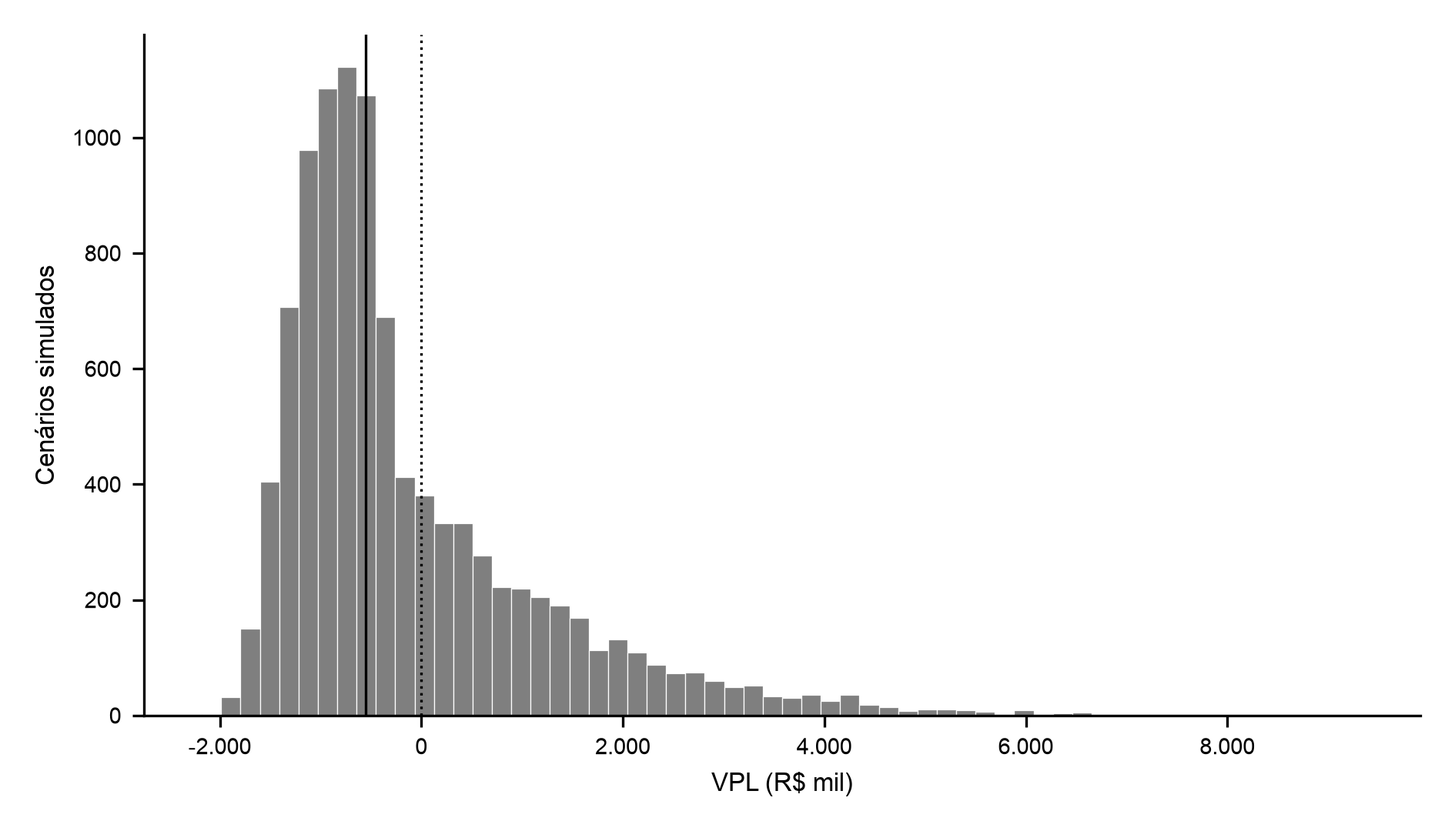
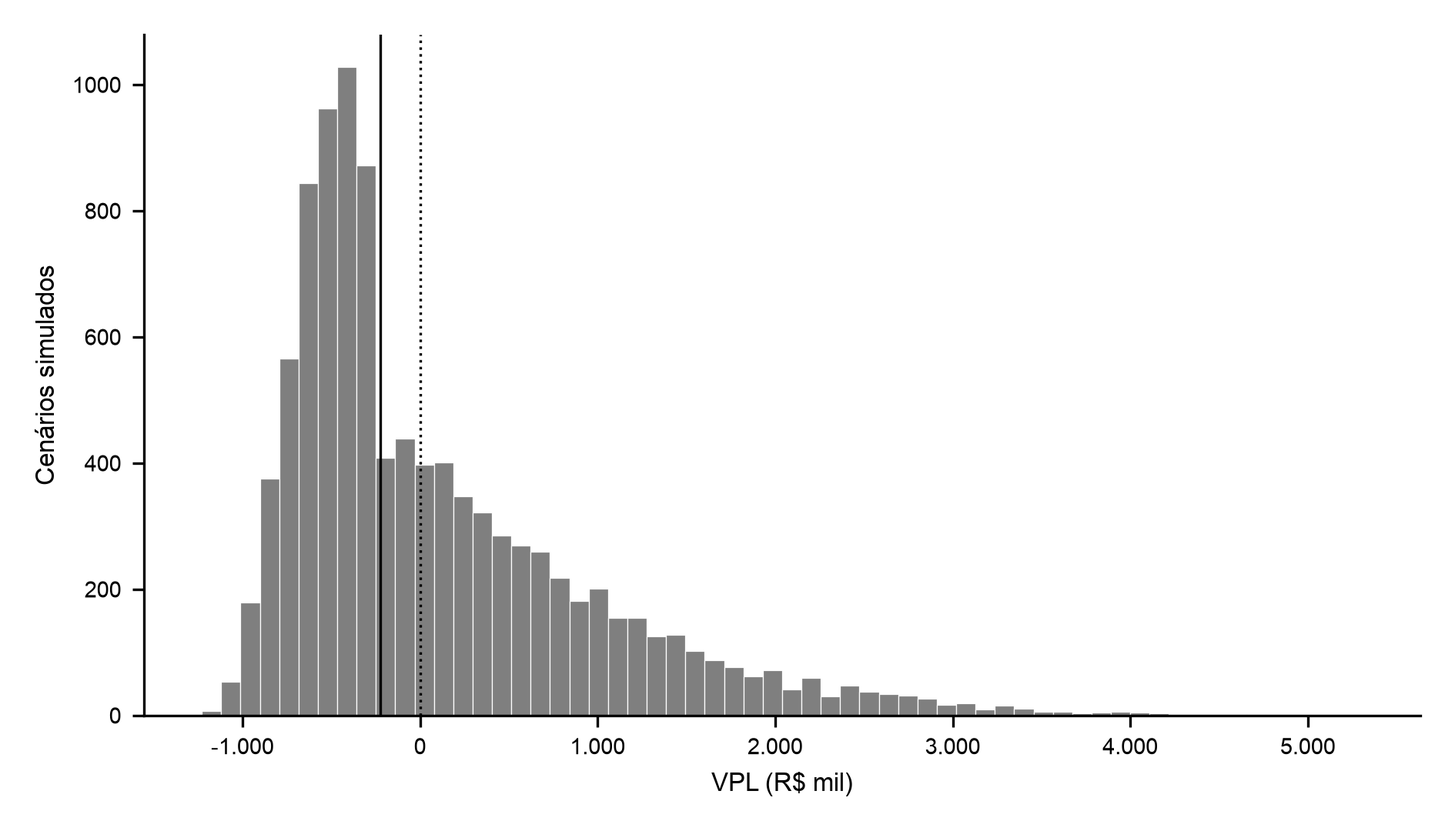
Cap. 9: modelo financeiro no desenho enxuto (6 mesas, 48 h, equipe de 6)
O provável sai de -R$ 638 mil para -R$ 47 mil e a probabilidade de VPL positivo sobe para 41,6%. O salário passa a variar só para cima do CAGED.

diff --git a/_src/extras/gerar_modelo_financeiro.py b/_src/extras/gerar_modelo_financeiro.py
@@ -28,6 +28,14 @@ pessoa no otimista, por dupla no provável, por trio no pessimista). Os dados de
 pedidos da coleta presencial (B3) ficam fora do modelo: a coleta se mostrou
 inviável.
 
+Desenho enxuto (P7 de _instrucoes/1a_principios.md, 02/11/2026): 6 mesas;
+terça a sexta das 15h às 23h e sábado e domingo das 14h às 22h (as 8 h
+contínuas com mais luderias abertas no B1), segunda fechada; equipe de 6 (2
+cozinheiros-chefes, 3 instrutores de tempo integral e 1 de meio período, 20 h).
+A São Jogue entra como referência de comportamento (ocupação, pessoas por mesa,
+permanência, giro), não de porte. As mesas ocupadas ficam limitadas ao salão:
+média ≤ mesas do salão ÷ razão pico/média das visitas (B3).
+
 Entradas: B1 (cesta de jogos; couvert e cesta de consumo dos cardápios), B3
 (contagem_resumo_visitas.csv, contagem_notas_intervalo.csv), B4 (FipeZap, CAGED, BCB,
 Simples Nacional, IBGE PAS e população). As premissas N6 ficam em PREMISSAS,
@@ -72,6 +80,7 @@ FIGURA_MC = ROOT / "textos" / "capitulos" / "figuras" / "9_monte_carlo.png"
 SOFFICE = "/Applications/LibreOffice.app/Contents/MacOS/soffice"
 
 MESES = 60
+JORNADA_H, MEIO_PERIODO_H = 44, 20  # jornada semanal da CLT e do instrutor de meio período
 # vida útil (anos) dos itens depreciáveis, a mesma da aba investimento
 VIDA_UTIL = dict(reforma=5, mobiliario=10, cozinha=10, ti=5, acervo=5, preop=5)
 ANOS = 5
@@ -140,18 +149,17 @@ def salario(f, ocupacao: str, recorte: str = "CNAE 56 - alimentação") -> float
 
 
 def quadro_pessoal(f) -> list[tuple]:
-    """(cargo, CBO, quantidade, salário, fonte). Quadro de referência: dois turnos, 68 h por semana."""
+    """(cargo, CBO, quantidade, salário, fonte). Equipe do desenho enxuto (P7): 48 h abertas
+    por semana, de terça a domingo; a gestão fica com o sócio (pró-labore, C08)."""
     cn56 = "CAGED, admissões ago/2025-jul/2026, Salvador, CNAE 56, mediana"
     todas = "CAGED, admissões ago/2025-jul/2026, Salvador, todas as atividades, mediana (CNAE 56 com amostra pequena)"
+    rec = salario(f, "Recreador", "todas as atividades")
     return [
-        ("Gerente", "141510", 1, salario(f, "Gerente de restaurante"), cn56),
-        ("Cozinheiro", "513205", 2, salario(f, "Cozinheiro geral"), cn56),
-        ("Auxiliar de cozinha", "513505", 1, salario(f, "Auxiliar nos serviços de alimentação"), cn56),
-        ("Garçom", "513405", 3, salario(f, "Garçom"), cn56),
-        ("Atendente de bar e balcão", "513435", 1, salario(f, "Atendente de lanchonete"), cn56),
-        ("Operador de caixa", "421125", 1, salario(f, "Operador de caixa"), cn56),
-        ("Instrutor de jogos (recreador)", "371410", 2, salario(f, "Recreador", "todas as atividades"), todas),
-        ("Auxiliar de limpeza", "514320", 1, salario(f, "Faxineiro"), cn56),
+        ("Cozinheiro-chefe", "513205", 2, salario(f, "Cozinheiro geral"),
+         cn56 + "; cozinheiro geral, sem chefe de cozinha no recorte"),
+        ("Instrutor de jogos (recreador), tempo integral", "371410", 3, rec, todas),
+        ("Instrutor de jogos (recreador), meio período de 20 h", "371410", 1, rec * MEIO_PERIODO_H / JORNADA_H,
+         todas + f"; proporcional a {MEIO_PERIODO_H} h de {JORNADA_H} h"),
     ]
 
 
@@ -166,28 +174,39 @@ def premissas(f) -> list[dict]:
     # (uma comanda e uma nota por pessoa; a nota sai só a pedido), na Paralela
     nf = f["notas"].set_index("unidade")
     piso = float(nf.loc["PA", "notas_emitidas"] / nf.loc["PA", "dias"])
+    # teto das mesas ocupadas em média: mesas do salão ÷ razão pico/média das visitas
+    MESAS = 6
+    vis_pico = vis["ocupacao_mesas_pico_pct"] / vis["ocupacao_mesas_media_pct"]
+    teto = MESAS / vis_pico.mean()
+    r04 = [min(teto, mo.mean() * k) for k in (1 - x, 1, 1 + x)]
+    # semana da São Jogue (3 dias de fim de semana e 4 úteis) na calibração do giro pessimista
     pess = dict(R02=2.5, R04=mo.mean() * (1 - x), R05=0.40, R16=3, R17=4)
     giro_pess = piso * 7 / (pess["R04"] * pess["R02"] * (pess["R16"] + pess["R17"] * pess["R05"]))
-    # giro otimista: horas abertas por dia (12h às 22h) ÷ permanência média das visitas;
+    # giro otimista: horas abertas por dia (8 h, desenho enxuto) ÷ permanência média das visitas;
     # provável: média do pessimista e do otimista (decisão do autor, 31/10/2026)
-    HORAS_DIA = 10
+    HORAS_DIA = 8
+    # acréscimo salarial máximo (C06), provisório: maior distância entre o 3º quartil
+    # e a mediana do salário de admissão entre os cargos do quadro
+    c = f["caged"]
+    acr = max(float(c[(c["ocupacao"] == o) & (c["recorte"] == rc)].eval("salario_p75 / salario_mediana - 1").iloc[0])
+              for o, rc in (("Cozinheiro geral", "CNAE 56 - alimentação"), ("Recreador", "todas as atividades")))
     giro_otim = HORAS_DIA * 60 / pm.mean()
     giro_prov = (giro_pess + giro_otim) / 2
     a = f["acervo"]
     R = lambda *x: dict(zip(("id", "nome", "unidade", "pess", "prov", "otim", "fonte", "nivel", "just"), x))
     return [
-        R("R01", "Mesas do salão", "mesas", 10, 10, 10,
-          "B3: São Jogue Paralela (9 a 10) e Bela Vista (10 a 11); cap. 7", "N5",
-          "Capacidade do salão; limita as mesas ocupadas (aba checagens), sem entrar na receita."),
+        R("R01", "Mesas do salão", "mesas", MESAS, MESAS, MESAS,
+          "Decisão do autor (desenho enxuto); B3: maior ocupação vista nas visitas", "N5 + N6",
+          f"Capacidade do salão; limita as mesas ocupadas em média a {teto:.2f} (mesas ÷ razão pico/média de {vis_pico.mean():.2f} das visitas)."),
         R("R02", "Pessoas por mesa ocupada", "pessoas", 2.5, round(pg.mean(), 1), 5.5,
           "B3, 4 visitas (out/2026); faixa do autor", "N5 + N6",
           f"Média das visitas {pg.mean():.1f} (de {pg.min():.1f} a {pg.max():.1f}); pessimista de 2 ou 3 e otimista de 5 ou 6 pessoas (ponto médio); Monte Carlo de 2 a 6."),
         R("R03", "Permanência média", "min", 137, round(pm.mean()), 83,
           "B3, 4 visitas (out/2026)", "N5",
           f"Médias por visita de {pm.min():.0f} a {pm.max():.0f} min; não entra na receita, só confere se os giros cabem no horário."),
-        R("R04", "Mesas ocupadas em média, fim de semana", "mesas", round(mo.mean() * (1 - x), 2), round(mo.mean(), 2), round(mo.mean() * (1 + x), 2),
+        R("R04", "Mesas ocupadas em média, fim de semana", "mesas", *[round(z, 2) for z in r04],
           "B3, 4 visitas nas noites de sexta e sábado (out/2026)", "N5",
-          f"Média das visitas ({mo.min():.1f} a {mo.max():.1f} mesas); ± {x:.0%}, distância média dos extremos observados à média."),
+          f"Média das visitas ({mo.min():.1f} a {mo.max():.1f} mesas); ± {x:.0%}, distância média dos extremos observados à média; limitada a {teto:.2f} pelo salão de {MESAS} mesas (R01)."),
         R("R05", "Mesas ocupadas em dia útil", "% do fim de semana", 0.40, 0.50, 0.60,
           "Estimativa do autor", "N6",
           "Cerca de metade do fim de semana; sem visita em dia útil."),
@@ -212,36 +231,36 @@ def premissas(f) -> list[dict]:
         R("R12", "Meses até a maturidade", "meses", 12, 9, 6,
           "Estimativa do autor (_instrucoes, §5)", "N6",
           "Rampa de 6 a 12 meses."),
-        R("R13", "Horas abertas por semana, fim de semana", "h", 28, 28, 28,
-          "Horário da São Jogue (B1 e autor)", "N3",
-          "Sexta e sábado das 12h às 22h; domingo das 13h às 21h."),
-        R("R14", "Horas abertas por semana, dia útil", "h", 40, 40, 40,
-          "Horário da São Jogue (B1 e autor)", "N3",
-          "Segunda a quinta das 12h às 22h."),
+        R("R13", "Horas abertas por semana, fim de semana", "h", 3 * HORAS_DIA, 3 * HORAS_DIA, 3 * HORAS_DIA,
+          "B1: horário de 49 concorrentes (Google Maps, out/2026); decisão do autor", "N3",
+          "Sexta das 15h às 23h; sábado e domingo das 14h às 22h: as 8 h contínuas com mais luderias abertas em cada dia."),
+        R("R14", "Horas abertas por semana, dia útil", "h", 3 * HORAS_DIA, 3 * HORAS_DIA, 3 * HORAS_DIA,
+          "B1: horário de 49 concorrentes (Google Maps, out/2026); decisão do autor", "N3",
+          "Terça a quinta das 15h às 23h; segunda fechada (71% dos concorrentes fecham)."),
         R("R15", "Giros por mesa por dia", "grupos por mesa ocupada", round(giro_pess, 2), round(giro_prov, 2), round(giro_otim, 2),
           "B3: NFC-e da São Jogue Paralela (pessimista) e permanência das 4 visitas (otimista)", "N5",
-          f"Pessimista calibrado para o cenário atender {piso:.2f} clientes por dia, as NFC-e por dia da Paralela (17/10 a 30/10/2026): uma comanda e uma nota por pessoa, emitida só a pedido, então piso. Otimista: {HORAS_DIA} h abertas por dia (12h às 22h) ÷ permanência média de {pm.mean():.0f} min. Provável: média dos dois."),
+          f"Pessimista calibrado para o cenário atender {piso:.2f} clientes por dia, as NFC-e por dia da Paralela (17/10 a 30/10/2026): uma comanda e uma nota por pessoa, emitida só a pedido, então piso. Otimista: {HORAS_DIA} h abertas por dia ÷ permanência média de {pm.mean():.0f} min. Provável: média dos dois."),
         R("R16", "Dias abertos por semana, fim de semana", "dias", 3, 3, 3,
-          "Horário da São Jogue (B1 e autor)", "N3", "Sexta a domingo."),
-        R("R17", "Dias abertos por semana, dia útil", "dias", 4, 4, 4,
-          "Horário da São Jogue (B1 e autor)", "N3", "Segunda a quinta."),
+          "Decisão do autor (desenho enxuto)", "N3", "Sexta a domingo."),
+        R("R17", "Dias abertos por semana, dia útil", "dias", 3, 3, 3,
+          "Decisão do autor (desenho enxuto); B1", "N3", "Terça a quinta; segunda fechada."),
         R("C01", "CMV de alimentos e bebidas", "% do A&B", 0.35, 0.30, 0.26,
           "IBGE PAS 2023, serviços de alimentação (B4)", "N2",
           f"Mercadorias e materiais = {f['pas_mercadorias_pct']:.1f}% da receita líquida do setor."),
         R("C02", "Taxa de cartão", "% da receita", 0.035, 0.030, 0.025,
           "Estimativa do autor", "N6",
           "Mistura de débito, crédito e Pix."),
-        R("C03", "Área do ponto", "m²", 220, 180, 150,
-          "Estimativa do autor", "N6",
-          "Salão de 10 mesas, cozinha, caixa e uma sala reservável."),
+        R("C03", "Área do ponto", "m²", 150, 130, 110,
+          "Estimativa do autor; fotos da São Jogue Bela Vista", "N6",
+          "Salão de 6 mesas (cerca de 12 m² por mesa) mais 60 m² de cozinha, balcão, acervo e banheiros; a Bela Vista tem salão de 75 a 95 m² para 10 mesas."),
         R("C04", "Aluguel comercial", "R$ por m² ao mês", round(f["aluguel_m2"] * (1 + f["aluguel_var12m"] / 100), 2), round(f["aluguel_m2"], 2), 45,
           "FipeZap, locação comercial, Salvador, jul/2026 (B4)", "N2",
           f"Pessimista com a alta de {f['aluguel_var12m']:.1f}% em 12 meses; otimista para ponto fora de shopping."),
         R("C05", "Condomínio e IPTU", "% do aluguel", 0.30, 0.20, 0.10,
           "Estimativa do autor", "N6", "Maior em shopping."),
-        R("C06", "Fator do quadro de pessoal", "× quadro de 12", 14 / 12, 1.0, 10 / 12,
-          "Quadro de referência (aba pessoal)", "N6",
-          "14, 12 ou 10 pessoas em dois turnos; a São Jogue tinha de 3 a 7 instrutores nas visitas."),
+        R("C06", "Acréscimo sobre o salário de admissão", "% do salário do CAGED", round(acr, 4), 0.0, 0.0,
+          "Novo CAGED, Salvador, 3º quartil ÷ mediana do salário de admissão (B4)", "N2 + N6",
+          f"O CAGED registra a admissão, que tende a pagar menos que o estoque; variação só para cima, de 0% a {acr:.1%} (provisório: maior distância do 3º quartil à mediana entre os cargos; x a definir pelo autor)."),
         R("C07", "Encargos e provisões sobre a folha", "% do salário", 0.45, 0.37, 0.30,
           "CLT (FGTS, 13º, férias) e estimativa de benefícios", "N1 + N6",
           "No Simples, a contribuição patronal fica no DAS dos anexos I e III."),
@@ -252,7 +271,7 @@ def premissas(f) -> list[dict]:
         R("C12", "Sistemas (caixa, reservas, nota fiscal)", "R$ por mês", 600, 450, 300, "Estimativa do autor", "N6", "Assinaturas."),
         R("C13", "Reposição do acervo", "% do acervo ao ano", 0.15, 0.10, 0.05, "Estimativa do autor", "N6", "Peças perdidas e jogos novos."),
         R("I01", "Reforma e instalações", "R$ por m²", 1400, 1000, 600, "Estimativa do autor", "N6", "Sem cotação; ponto alugado sem obra estrutural."),
-        R("I02", "Mobiliário (mesas, cadeiras, estantes)", "R$", 60000, 45000, 30000, "Estimativa do autor; descrição das unidades da São Jogue", "N6", "10 mesas, 48 assentos e estantes de pinus com metal."),
+        R("I02", "Mobiliário (mesas, cadeiras, estantes)", "R$", 44000, 33000, 22000, "Estimativa do autor; descrição das unidades da São Jogue", "N6", "6 mesas, cerca de 30 assentos e estantes de pinus com metal: R$ 15 mil de base mais R$ 3 mil por mesa no provável, ± 1/3."),
         R("I03", "Cozinha e bar", "R$", 80000, 60000, 40000, "Estimativa do autor", "N6", "Cozinha própria, como a da São Jogue."),
         R("I04", "Caixa e informática", "R$", 8000, 6000, 4000, "Estimativa do autor", "N6", "1 computador, 1 impressora de nota e 2 maquininhas."),
         R("I05", "Acervo inicial de jogos", "R$", round(a["p75"], 2), round(a["mediana"], 2), round(a["p25"], 2),
@@ -298,7 +317,7 @@ def calcula(f, v: dict, folha: float) -> dict:
     m["cmv"] = m["ab"] * v["C01"]
     m["cartao"] = m["bruta"] * v["C02"]
     aluguel = v["C03"] * v["C04"]
-    fixos = (aluguel * (1 + v["C05"]) + folha * v["C06"] * (1 + v["C07"]) + v["C08"] + v["C09"]
+    fixos = (aluguel * (1 + v["C05"]) + folha * (1 + v["C06"]) * (1 + v["C07"]) + v["C08"] + v["C09"]
              + v["C10"] + v["C11"] + v["C12"] + v["I05"] * v["C13"] / 12)
     m["fixos"] = fixos
     m["ebitda"] = m["bruta"] - m["simples"] - m["cmv"] - m["cartao"] - m["fixos"]
@@ -484,7 +503,8 @@ def planilha(f, prem, quadro, resultados, tornado, rupt, mc, sem_residual):
         ws.cell(r, 3).number_format = INT
         ws.cell(r, 4).number_format = ws.cell(r, 5).number_format = MOEDA
     wb.defined_names["FOLHA_REF"] = DefinedName("FOLHA_REF", attr_text=f"pessoal!$E${rt}")
-    nota(ws, rt + 2, "Fonte: Novo CAGED (MTE), salário de admissão, mediana, ago/2025 a jul/2026 (B4). Encargos e fator do quadro na aba premissas (C06 e C07).", 6)
+    wb.defined_names["QUADRO_N"] = DefinedName("QUADRO_N", attr_text=f"pessoal!$C${rt}")
+    nota(ws, rt + 2, "Fonte: Novo CAGED (MTE), salário de admissão, mediana, ago/2025 a jul/2026 (B4). Acréscimo salarial e encargos na aba premissas (C06 e C07).", 6)
     for col, w in zip("ABCDEF", (30, 9, 11, 16, 16, 60)):
         ws.column_dimensions[col].width = w
 
@@ -591,7 +611,7 @@ def planilha(f, prem, quadro, resultados, tornado, rupt, mc, sem_residual):
         ws[f"{c}7"] = f"=SUM({c}4:{c}6)"
         ws[f"{c}8"] = "=P_C03*P_C04"
         ws[f"{c}9"] = f"={c}8*P_C05"
-        ws[f"{c}10"] = "=FOLHA_REF*P_C06*(1+P_C07)"
+        ws[f"{c}10"] = "=FOLHA_REF*(1+P_C06)*(1+P_C07)"
         ws[f"{c}11"] = "=P_C08"
         ws[f"{c}12"] = "=P_C09"
         ws[f"{c}13"] = "=P_C10"
@@ -857,8 +877,8 @@ def planilha(f, prem, quadro, resultados, tornado, rupt, mc, sem_residual):
          "Taxa de entrada média mais uma cesta de consumo média por pessoa (B1): teto do otimista"),
         ("Taxa de entrada (R$)", "=P_R06", float(f["taxa_b1_mediana"]),
          f"Mediana do couvert ou taxa de jogo nos cardápios de {f['taxa_b1_n']} concorrentes (B1)"),
-        ("Pessoas atendidas por dia por funcionário", "=B3/(12*P_C06)", "",
-         "Quadro de referência de 12 em dois turnos (aba pessoal)"),
+        ("Pessoas atendidas por dia por funcionário", "=B3/QUADRO_N", "",
+         "Equipe do desenho enxuto (aba pessoal)"),
         ("Visitas por ano ÷ população de Salvador", "=receitas!BJ7*12/C12", float(f["pop_salvador"]),
          "População estimada de Salvador em 2026 (IBGE, B4); visitas, não pessoas distintas"),
         ("Meses até a maturidade", "=P_R12", "", "Entre 6 e 12 meses (_instrucoes, §5)"),

diff --git a/docs/pendencias.md b/docs/pendencias.md
@@ -11,8 +11,8 @@ Tudo o que está em aberto, num só lugar. Quando um item for resolvido, ele sai
 - **Cap. 2 reordenado no TMin v9 (02/11/2026).** Seções na ordem nova, títulos renumerados e linhas do Quadro 1 na mesma ordem; três parágrafos novos com "*" (abertura do 2.1, definição de *competitive socialising* no 2.2 e ligação no começo do 2.4.1). O `_md/2_referencial_teorico.md` segue na ordem antiga até o autor escolher as versões.
 - **Voz passiva no `2_ref-teorico.md` (01/11/2026).** A instrução do cap. 2 pede a passiva sintética, que o `1b_escrita.md` (P5.5) veta; alinhar a instrução.
 - **Referências que faltam na lista única (31/10/2026; parcial em 02/11/2026).** Leis, LCs, resoluções, NBR 9050, CONCLA e Receita Federal entraram no TMin v9 com "*" e [AV]: conferir data, ementa e publicação de cada uma no Planalto e nos diários oficiais e tirar o [AV]. Falta a entrada do Novo CAGED. Pine e Gilmore (1998) e Oldenburg (1989), citados por apud, não precisam de entrada (NBR 10520).
-- **Desenho enxuto no modelo e nos capítulos (02/11/2026).** Aplicar a P7 (6 mesas; terça a sexta das 15h às 23h, sábado e domingo das 14h às 22h; 2 cozinheiros-chefes, instrutores de tempo integral, meio período de 20 h) às premissas R01, R13, R14, R15, R16 e R17, à equipe, à cozinha, à área, ao aluguel e ao investimento; refazer modelo, tornado e Monte Carlo; alinhar caps. 4, 7, 9, 10 e 11 (melhorias D43). Definir o CBO do cozinheiro-chefe no Novo CAGED.
-- **Variação dos salários no Monte Carlo (02/11/2026).** Definir o x% (variação de 0% a +x% sobre o salário de admissão do Novo CAGED, por cargo) e a fonte que o sustenta (ex.: diferença entre salário de admissão e salário médio do estoque no CEMPRE/RAIS, ou piso da convenção coletiva).
+- **Desenho enxuto nos capítulos (02/11/2026).** O modelo já segue a P7 (provável com VPL de -R$ 47 mil; +R$ 502 mil com a taxa da São Jogue, R$ 25,60; +R$ 345 mil com o giro de 4,56); falta alinhar os caps. 4, 7, 9, 10 e 11 (melhorias D43). Ponto de ruptura colado no provável (mesas ocupadas 4,44 contra 4,37; pessoas por mesa 3,66 contra 3,6): o texto precisa dizer que o provável fica no limite. Definir o CBO do cozinheiro-chefe no Novo CAGED (hoje, cozinheiro geral).
+- **Variação dos salários no Monte Carlo (02/11/2026).** Definir o x% (variação de 0% a +x% sobre o salário de admissão do Novo CAGED; no modelo, provisório de 11,4%, a maior distância do 3º quartil à mediana entre os cargos, aplicado à folha inteira) e a fonte que o sustenta (ex.: diferença entre salário de admissão e salário médio do estoque no CEMPRE/RAIS, ou piso da convenção coletiva).
 - **Recomendações do financeiro (02/11/2026).** Decidir quais mudanças entram no modelo: equipe do cap. 7, giro do fim de semana limitado a 9,3 h, ocupação de pico aplicada ao dia inteiro, gasto declarado no Google Maps como evidência do consumo por pessoa (gasto ≈ 1,2 cesta ampliada; cerca de 0,8 pessoa por cesta, 16 casas), taxa de entrada (opções e VPLs calculados em 02/11: média do B1, São Jogue, Tabela 6.1, ajustada pelo salário médio da cidade no CEMPRE 2024 e pelo salário das ocupações no CAGED) e área do ponto (fotos da Bela Vista indicam salão de 75 a 95 m² e loja de 110 a 150 m²; medir o contorno no Google Maps). Implementar as recomendações 3, 4 e 5 da revisão só depois disso. Com o valor residual, quando a perpetuidade é positiva, ela responde pela maior parte do VPL: declarar isso no texto.
 - **Texto sem visitas novas (02/11/2026).** Os 10.5 e 11.4 propõem visita em dia útil e evento piloto como validação antes do investimento; o autor não fará novas visitas. Reescrever as validações com o que dá para obter sem ir a campo (Google Maps "horários de pico", gasto declarado, cotações online).
 - **Coleta de anúncios de aluguel (02/11/2026).** Instalar `portais_aluguel.user.js` no Tampermonkey e rodar as buscas de pontos comerciais em Salvador (OLX, ZAP loja-salao e conjunto-comercial-sala, Viva Real ponto-comercial), mover os CSVs para `_dados-brutos/anuncios_aluguel/` e rodar o `B4-b_anuncios_aluguel.py`. Decidir se o resumo por bairro entra no 6.4 (Pituba/Itaigara, Barra/Graça, Rio Vermelho) e na premissa C07, e com que nível (preço pedido, N2).

diff --git a/docs/melhorias-texto.md b/docs/melhorias-texto.md
@@ -12,7 +12,7 @@ Formato de um item: **ID — título curto.** Onde (cap. e seção). O que diver
 
 ## Grave
 
-**D43 — Capítulos com o porte da São Jogue, contra o desenho enxuto (02/11/2026).** A P7 de `_instrucoes/1a_principios.md` fixa 6 mesas, funcionamento de terça a sexta das 15h às 23h e sábado e domingo das 14h às 22h, 2 cozinheiros-chefes, instrutores de tempo integral e um de meio período de 20 h. Os caps. 4, 7, 9, 10 e 11 e o modelo financeiro seguem com 10 mesas, 10 h abertas por dia (68 h por semana), giro otimista de 5,51 calculado sobre 10 h e equipe de 12 (8 na alternativa). Sugestão: refazer premissas e modelo pelo desenho enxuto e depois alinhar os capítulos.
+**D43 — Capítulos com o porte da São Jogue, contra o desenho enxuto (02/11/2026).** A P7 de `_instrucoes/1a_principios.md` fixa 6 mesas, funcionamento de terça a sexta das 15h às 23h e sábado e domingo das 14h às 22h, 2 cozinheiros-chefes, instrutores de tempo integral e um de meio período de 20 h. O modelo já segue a P7 (02/11/2026); os caps. 4, 7, 9, 10 e 11 seguem com 10 mesas, 10 h abertas por dia (68 h por semana), giro otimista de 5,51 calculado sobre 10 h e equipe de 12 (8 na alternativa). Os números do cap. 9 (VPL de -R$ 638 mil no provável, P(VPL > 0) de 31,9%) também mudaram: -R$ 47 mil e 41,6%. Sugestão: alinhar os capítulos ao modelo novo.
 
 **D01 — Três escalas de confiança com os mesmos rótulos.** Cap. 5 (nota de abertura, 5.1.2, 5.1.3, 5.2.3, 5.4.2 e quadro "Fontes por nível de preferência") × cap. 2 (2.1) × `_instrucoes/1a_principios.md` (P1, P2) e `8_financeiro.md` (N1–N6). O cap. 5 usa uma ordem própria de fontes em 4 níveis (oficial → fundação → entidade setorial → imprensa), decidida em 15/10 (`decisoes.md`), que não bate com a P1 (7 níveis: legislação, artigos revisados, teses, relatórios oficiais e setoriais…). Além disso, mistura as escalas no texto: a POF é "N2" (escala N1–N6, correto), o Savills é "nível 3" (da ordem própria; na N1–N6 seria N4), o público do Meta Ads é "N5, rastros digitais" (rastro digital é o tipo 5 da P2; N5 é coleta primária comportamental própria) e a cotação é "N2 na hierarquia de dados" (tipo 2 da P2, não N2). O cap. 2 anuncia só a N1–N6 e a P2 para o cap. 3. A banca lê "N2" e "nível 2" como a mesma coisa. Sugestão: no texto, usar só a N1–N6 para dados e premissas; a ordem de fontes do cap. 5 vira a P1 (atualizar a instrução) ou sai do capítulo; o tipo de dado da P2 ganha rótulo próprio (ex.: "tipo 5").
 

diff --git a/AGORA.md b/AGORA.md
@@ -4,7 +4,7 @@ Atualizado em 02/11/2026. Semana 8 do cronograma (31/10 a 06/11). Próxima entre
 
 ## Fazendo agora
 
-- **Desenho enxuto (02/11, 07h):** P7 nas instruções: 6 mesas; terça a sexta das 15h às 23h, sábado e domingo das 14h às 22h (8 h com mais luderias abertas no B1); 2 cozinheiros-chefes, instrutores com folga na segunda e de terça a quinta, meio período de 20 h; salários de 0% a +x% sobre o CAGED no Monte Carlo. Falta levar ao modelo e aos caps. 4, 7, 9, 10 e 11 e definir o x e o número de instrutores (pendências).
+- **Desenho enxuto (02/11, 07h):** P7 nas instruções: 6 mesas; terça a sexta das 15h às 23h, sábado e domingo das 14h às 22h (8 h com mais luderias abertas no B1); 2 cozinheiros-chefes, instrutores com folga na segunda e de terça a quinta, meio período de 20 h; salários de 0% a +x% sobre o CAGED no Monte Carlo. Modelo refeito (08h): VPL provável de -R$ 47 mil (-R$ 156 mil sem valor residual), P(VPL > 0) de 41,6%, ruptura colada no provável. Falta alinhar os caps. 4, 7, 9, 10 e 11 e definir o x (provisório de 11,4%).
 
 - **São Jogue dentro dos shoppings (02/11, 06h50):** 6.4 e 5 corrigidos nos `.md` e `.docx` (antes, "a 118 m de um shopping"); pela Places API, só a Paladins (Galeria Free Shop) também fica dentro de shopping; dado do entorno a corrigir (pendências).
 - **Aluguel por anúncios (02/11, 06h):** coletor no Tampermonkey para OLX, ZAP, Viva Real e QuintoAndar e build com resumo do R$/m² por bairro (`_src/[B4] Bases publicas/Anuncios de aluguel/`); falta rodar a coleta (pendências).
@@ -27,7 +27,7 @@ Atualizado em 02/11/2026. Semana 8 do cronograma (31/10 a 06/11). Próxima entre
 
 ## Próximos 3 passos
 
-1. Aplicar o desenho enxuto (P7) ao modelo e aos caps. 4, 7, 9, 10 e 11, com as demais recomendações do financeiro (pendências).
+1. Alinhar os caps. 4, 7, 9, 10 e 11 ao modelo do desenho enxuto e decidir as demais recomendações do financeiro (pendências).
 2. Fazer a recodificação cega; depois, refazer o 5.2 e escrever 6.1, 6.2 e 6.5.
 3. Cortar o cap. 10 até o teto (melhorias C17), escrever o 6.6 e preencher 4.2 e 4.3.
 

diff --git a/docs/registro-de-alteracoes.md b/docs/registro-de-alteracoes.md
@@ -2170,3 +2170,9 @@ A edição do autor no §6 do dicionário continua fora do commit.
 **Antes**: número de instrutores de tempo integral em aberto.
 **Depois**: 3 instrutores de tempo integral (folgas na segunda e em dias diferentes de terça a quinta) e 1 de meio período; equipe de 6 com os 2 cozinheiros-chefes. Cobertura: 2 instrutores na terça e na quarta, 3 na quinta e 3 de sexta a domingo (4 nas horas do meio período).
 **Justificativa**: decisão do autor.
+
+### 08:12
+**Objeto**: `_src/extras/gerar_modelo_financeiro.py`; `textos/capitulos/9_plano_financeiro_modelo.xlsx`, `figuras/9_tornado.png`, `figuras/9_monte_carlo.png` (regerados)
+**Antes**: casa do porte da São Jogue: 10 mesas, 7 dias e 68 h por semana (giro otimista sobre 10 h), quadro de 12 (gerente, 2 cozinheiros, auxiliar, 3 garçons, atendente, caixa, 2 instrutores, limpeza; folha de R$ 20.583) com fator de 14, 12 ou 10 pessoas (C06), área de 220/180/150 m², mobiliário de R$ 60/45/30 mil. VPL de -R$ 2,88 mi / -R$ 638 mil / +R$ 15,98 mi; P(VPL > 0) de 31,9%.
+**Depois**: desenho enxuto (P7): 6 mesas, com as mesas ocupadas limitadas a 4,65 (6 ÷ razão pico/média de 1,29 das visitas); terça a domingo, 8 h por dia (R13 e R14 = 24 h; R17 = 3 dias); giro otimista de 4,41 (8 h ÷ permanência) e provável de 4,01; equipe de 6 (2 cozinheiros-chefes, 3 instrutores e 1 de meio período de 20 h; folha de R$ 9.113); C06 vira acréscimo sobre o salário do CAGED, de 0% (provável e otimista) a 11,4% (pessimista), triangular no Monte Carlo; área de 150/130/110 m²; mobiliário de R$ 44/33/22 mil; checagem de pessoas por funcionário pelo quadro da aba pessoal. VPL de -R$ 1,78 mi / -R$ 47 mil (-R$ 156 mil sem valor residual) / +R$ 8,16 mi; P(VPL > 0) de 41,6%. Planilha conferida no LibreOffice nos três cenários (diferença zero).
+**Justificativa**: pedido do autor (aplicar a P7 ao modelo). A calibração do giro pessimista continua com a semana da São Jogue (3 dias de fim de semana e 4 úteis), porque usa as NFC-e dela. O x de 11,4% é provisório.
